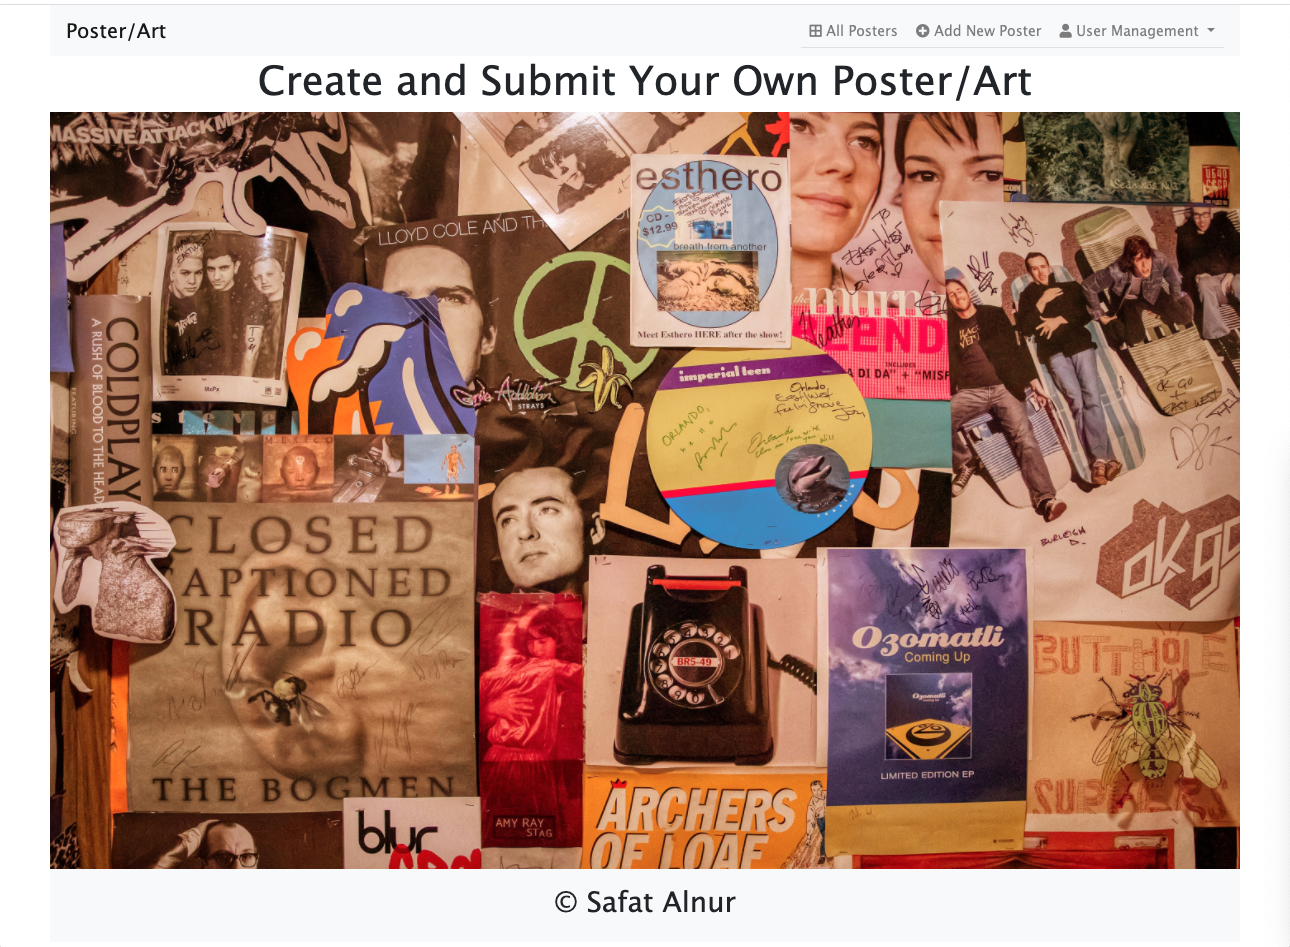
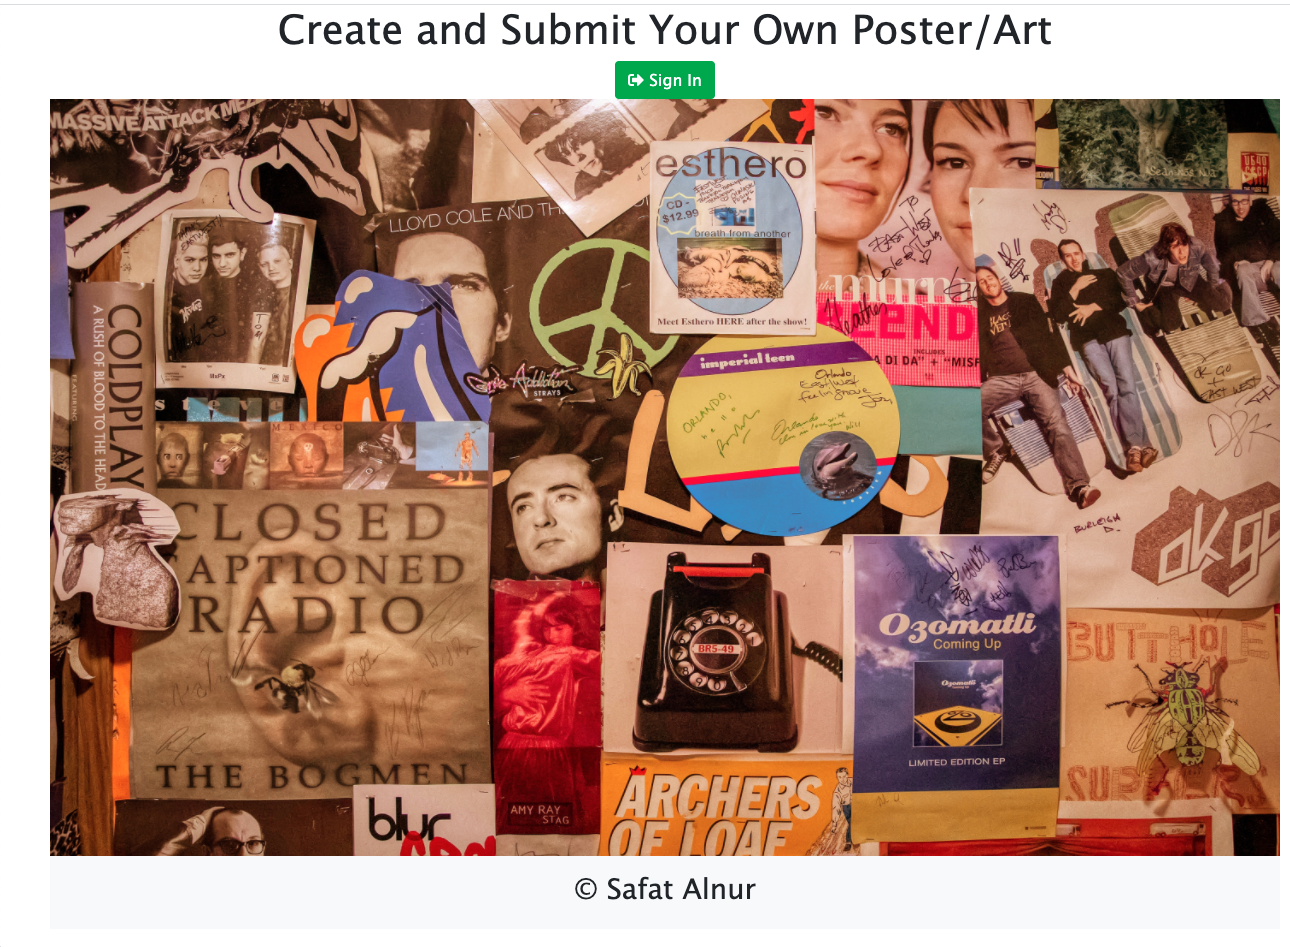
Chore: update readme

diff --git a/routes/posters.js b/routes/posters.js
@@ -3,6 +3,7 @@ var router = express.Router();
 const postersController = require('../controllers/posters')
 const multer = require('multer')
 const path = require('path')
+const notLoggedIn = require('./index')
 
 
 //Saving uploaded images
@@ -21,19 +22,19 @@ const upload = multer({
 router.get('/new', postersController.new);
 
 // POST new Poster/Art
-router.post('/', upload, postersController.create)
+router.post('/', upload, notLoggedIn, postersController.create)
 
 //View all posters
-router.get('/', postersController.index)
+router.get('/', notLoggedIn, postersController.index)
 
 //View individual poster
-router.get('/:id', upload, postersController.show)
+router.get('/:id', upload, notLoggedIn, postersController.show)
 
 //View and Edit individual posters
-router.get('/edit/:id', upload, postersController.edit)
-router.post('/edit/:id', upload, postersController.update)
+router.get('/edit/:id', upload, notLoggedIn, postersController.edit)
+router.post('/edit/:id', upload, notLoggedIn, postersController.update)
 
 //Delete individual poster
-router.delete('/:id', postersController.deletePoster)
+router.delete('/:id', notLoggedIn, postersController.deletePoster)
 
 module.exports = router;

diff --git a/routes/index.js b/routes/index.js
@@ -11,7 +11,7 @@ const userController = require('../controllers/users')
 //     title: 'Create and Submit Your Own Poster/Art' 
 //   });
 // });
-router.get('/', userController.index)
+router.get('/home', userController.index)
 
 // Log In route
 router.get('/auth/google', passport.authenticate(
@@ -32,12 +32,12 @@ router.get('/oauth2callback', passport.authenticate(
 // Log out route
 router.get('/logout', function(req,res){
   req.logout()
-  res.redirect('/')
+  res.redirect('/home')
 })
 
-// function loggedIn(req, res, next){
-//   if (req.isAuthenticated()) return next()
-//   res.redirect('/auth/google')
-// }
+function notLoggedIn(req, res, next){
+  if (req.isAuthenticated()) return next()
+  res.redirect('/auth/google')
+}
 
 module.exports = router;

diff --git a/controllers/users.js b/controllers/users.js
@@ -6,8 +6,17 @@ module.exports= {
 
 function index(req, res, next) {
     console.log('user index>>>>>>>>>>>>>>>>>', req.query)
-    res.render('index', {
-        user: req.user,
-        title: 'Create and Submit Your Own Poster/Art' 
+    let modelQuery = req.query.name ? {name: new RegExp(req.query.name, 'i')} : {};
+    let sortKey = req.query.sort || 'name';
+    User.find(modelQuery)
+        .sort(sortKey).exec(function(err, users) {
+    if (err) return next(err);
+        res.render('index', {
+            users,
+            user: req.user,
+            name: req.query.name,
+            sortKey,
+            title: 'Create and Submit Your Own Poster/Art' 
+        })
     })
 }
